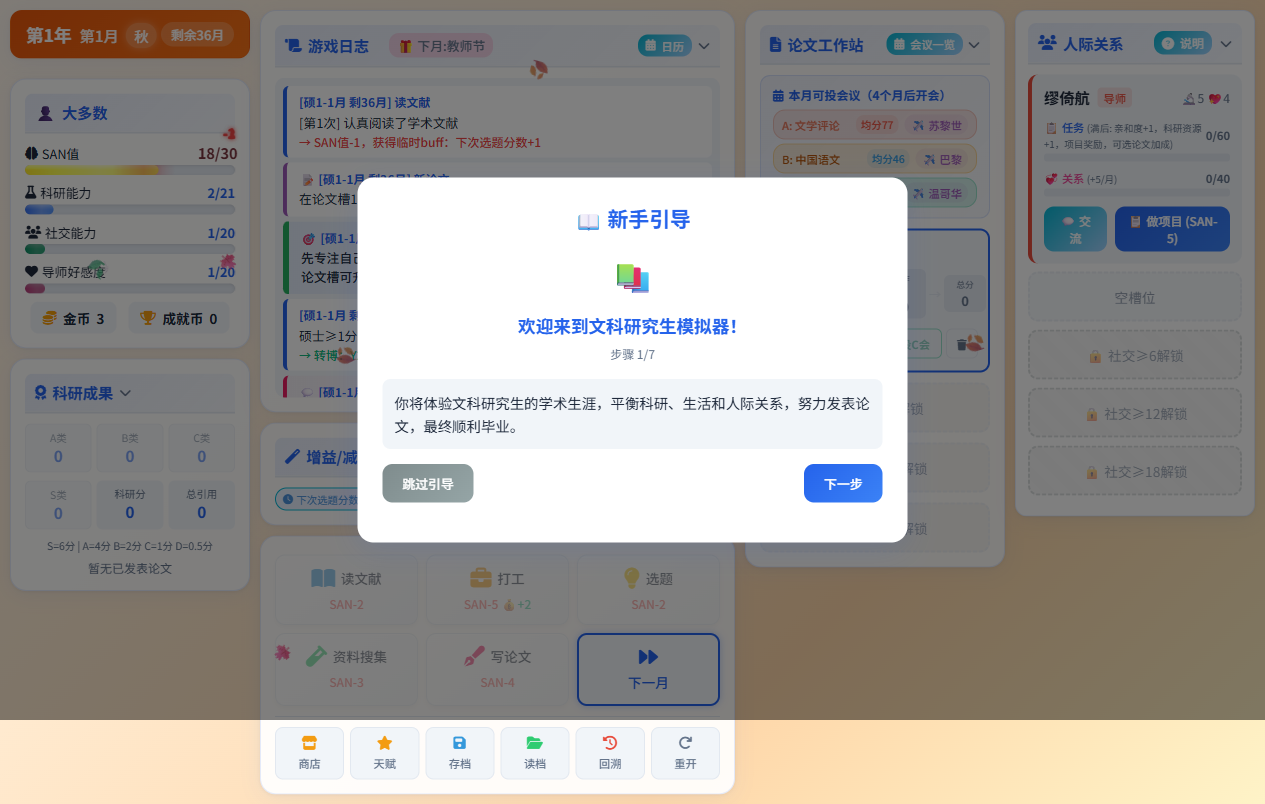
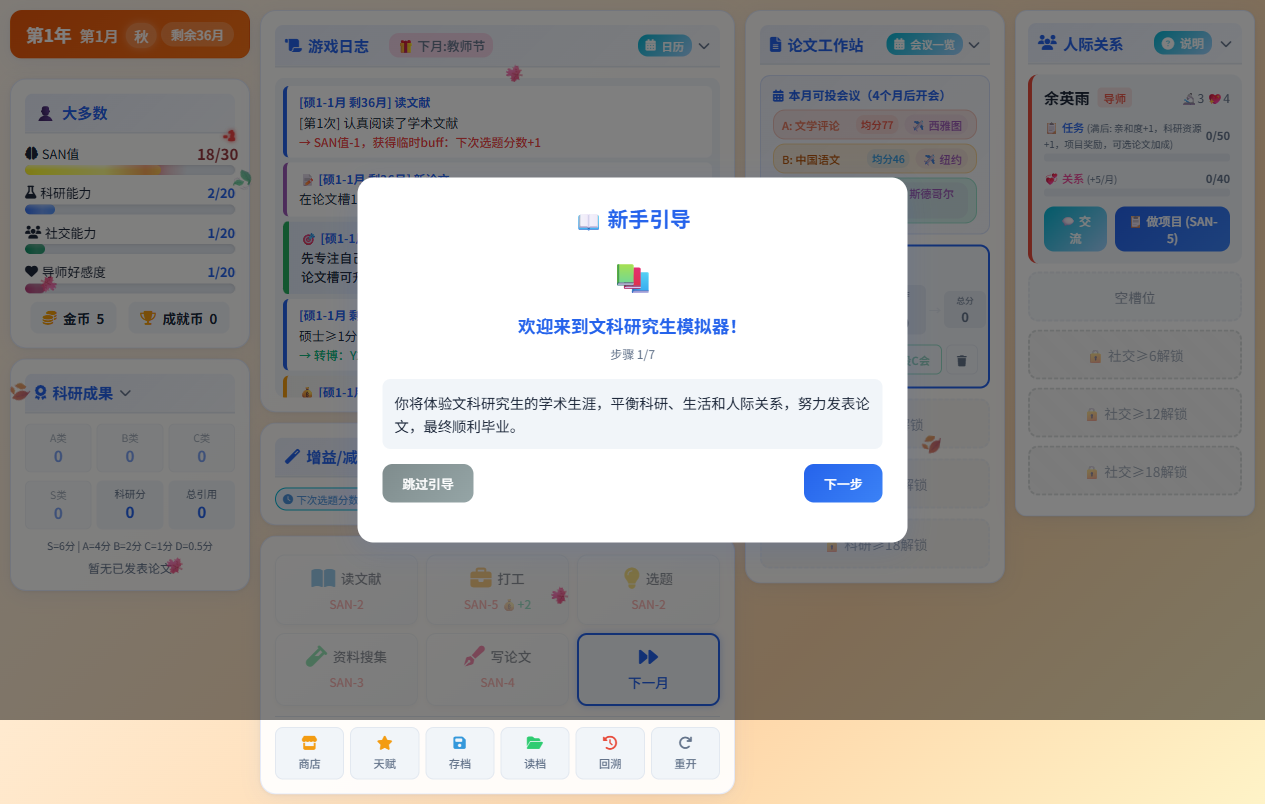
fix: 修复新手引导弹窗阻挡操作的问题
- 延迟新手引导显示时间到3秒
- 只有在没有其他弹窗时才显示引导

diff --git a/test_nextmonth.js b/test_nextmonth.js
@@ -1,0 +1,127 @@
+const { chromium } = require('playwright');
+
+(async () => {
+    const browser = await chromium.launch({ headless: false });
+    const page = await browser.newPage();
+
+    // 监听所有日志
+    page.on('console', msg => {
+        const text = msg.text();
+        if (text.includes('❌') || text.includes('错误') || text.includes('error') || text.includes('下一月') || text.includes('nextMonth')) {
+            console.log(`[LOG] ${text}`);
+        }
+    });
+    page.on('pageerror', error => console.log(`[PAGE_ERROR] ${error.message}`));
+
+    await page.goto('http://localhost:8080/index_liberal_arts.html', { waitUntil: 'networkidle' });
+    await page.waitForTimeout(2000);
+
+    // 快速开始游戏
+    await page.click('text=人文学科');
+    await page.waitForTimeout(300);
+    await page.click('text=中国语言文学');
+    await page.waitForTimeout(300);
+    await page.evaluate(() => selectCharacterFromRune('normal', false));
+    await page.waitForTimeout(300);
+    await page.click('#start-btn', { force: true });
+    await page.waitForTimeout(3000);
+
+    // 选择导师
+    const advisorOpt = await page.$('.advisor-option');
+    if (advisorOpt) await advisorOpt.click();
+    await page.waitForTimeout(2000);
+
+    // 关闭弹窗
+    for (let i = 0; i < 10; i++) {
+        const btns = await page.$$('.modal button');
+        for (const btn of btns) {
+            const text = await btn.textContent();
+            if (text.includes('确定') || text.includes('关闭') || text.includes('继续') || text.includes('知道了')) {
+                await btn.click().catch(() => {});
+                await page.waitForTimeout(200);
+            }
+        }
+        await page.waitForTimeout(200);
+    }
+
+    console.log('=== 测试下一月按钮 ===\n');
+
+    // 检查按钮状态
+    const nextBtn = await page.$('#btn-next');
+    if (nextBtn) {
+        const visible = await nextBtn.isVisible();
+        const disabled = await nextBtn.getAttribute('disabled');
+        const text = await nextBtn.textContent();
+        console.log(`按钮可见: ${visible}`);
+        console.log(`按钮禁用: ${disabled}`);
+        console.log(`按钮文本: ${text.trim()}`);
+    }
+
+    // 测试直接调用nextMonth函数
+    console.log('\n--- 测试直接调用nextMonth ---');
+    const before = await page.evaluate(() => ({
+        year: gameState.year,
+        month: gameState.month,
+        totalMonths: gameState.totalMonths,
+        san: gameState.san,
+        gold: gameState.gold
+    }));
+    console.log(`调用前: ${before.year}年${before.month}月, 总月数${before.totalMonths}, SAN:${before.san}, 金币:${before.gold}`);
+
+    await page.evaluate(() => {
+        console.log('调用nextMonth...');
+        nextMonth();
+        console.log('nextMonth调用完成');
+    });
+    await page.waitForTimeout(3000);
+
+    const after = await page.evaluate(() => ({
+        year: gameState.year,
+        month: gameState.month,
+        totalMonths: gameState.totalMonths,
+        san: gameState.san,
+        gold: gameState.gold
+    }));
+    console.log(`调用后: ${after.year}年${after.month}月, 总月数${after.totalMonths}, SAN:${after.san}, 金币:${after.gold}`);
+    console.log(`时间变化: ${before.year}年${before.month}月 → ${after.year}年${after.month}月`);
+
+    // 测试点击按钮
+    console.log('\n--- 测试点击按钮 ---');
+    const before2 = await page.evaluate(() => ({
+        year: gameState.year,
+        month: gameState.month
+    }));
+
+    if (nextBtn && await nextBtn.isVisible()) {
+        await nextBtn.click({ force: true });
+        console.log('点击了下一月按钮');
+    }
+    await page.waitForTimeout(3000);
+
+    const after2 = await page.evaluate(() => ({
+        year: gameState.year,
+        month: gameState.month
+    }));
+    console.log(`点击后: ${after2.year}年${after2.month}月`);
+
+    // 检查弹窗
+    console.log('\n--- 检查弹窗 ---');
+    const overlay = await page.$('#modal-overlay.active');
+    console.log(`弹窗遮罩可见: ${!!overlay}`);
+    if (overlay) {
+        const title = await page.$('#modal-title');
+        if (title) {
+            console.log(`弹窗标题: ${await title.textContent()}`);
+        }
+    }
+
+    // 检查isNextMonthProcessing标志
+    const isProcessing = await page.evaluate(() => isNextMonthProcessing);
+    console.log(`\nisNextMonthProcessing: ${isProcessing}`);
+
+    await page.screenshot({ path: 'test_nextmonth.png', fullPage: true });
+    console.log('\n✅ 测试完成');
+
+    await page.waitForTimeout(3000);
+    await browser.close();
+})();

diff --git a/js/features/characters.js b/js/features/characters.js
@@ -1280,10 +1280,17 @@
 					renderRelationshipPanel();
 					updateAllUI();
 
-					// ★★★ 文科版：显示新手引导 ★★★
+					// ★★★ 文科版：显示新手引导（延迟到玩家第一次操作后）★★★
 					if (typeof IS_LIBERAL_ARTS !== 'undefined' && IS_LIBERAL_ARTS && typeof shouldShowGuide === 'function' && typeof showLiberalArtsGuide === 'function') {
 						if (shouldShowGuide()) {
-							setTimeout(() => showLiberalArtsGuide(), 500);
+							// 延迟更长时间，确保玩家已完成初始操作
+							setTimeout(() => {
+								// 只有在没有其他弹窗时才显示引导
+								const overlay = document.getElementById('modal-overlay');
+								if (!overlay || !overlay.classList.contains('active')) {
+									showLiberalArtsGuide();
+								}
+							}, 3000);
 						}
 					}
 				});
